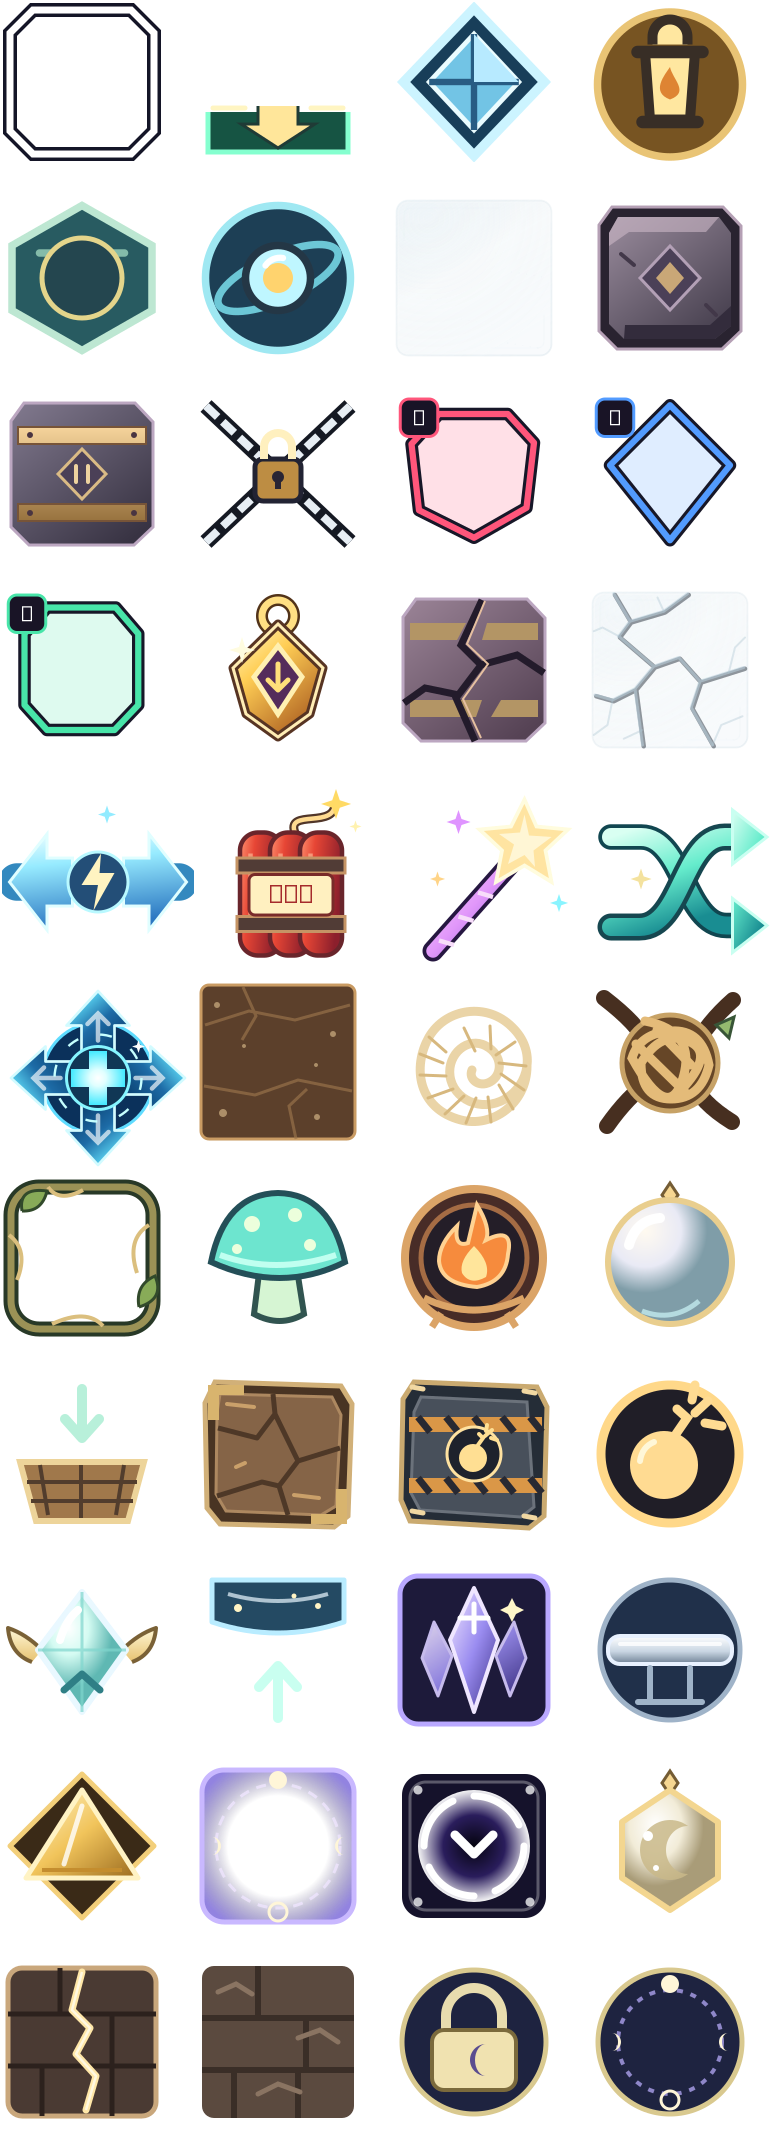
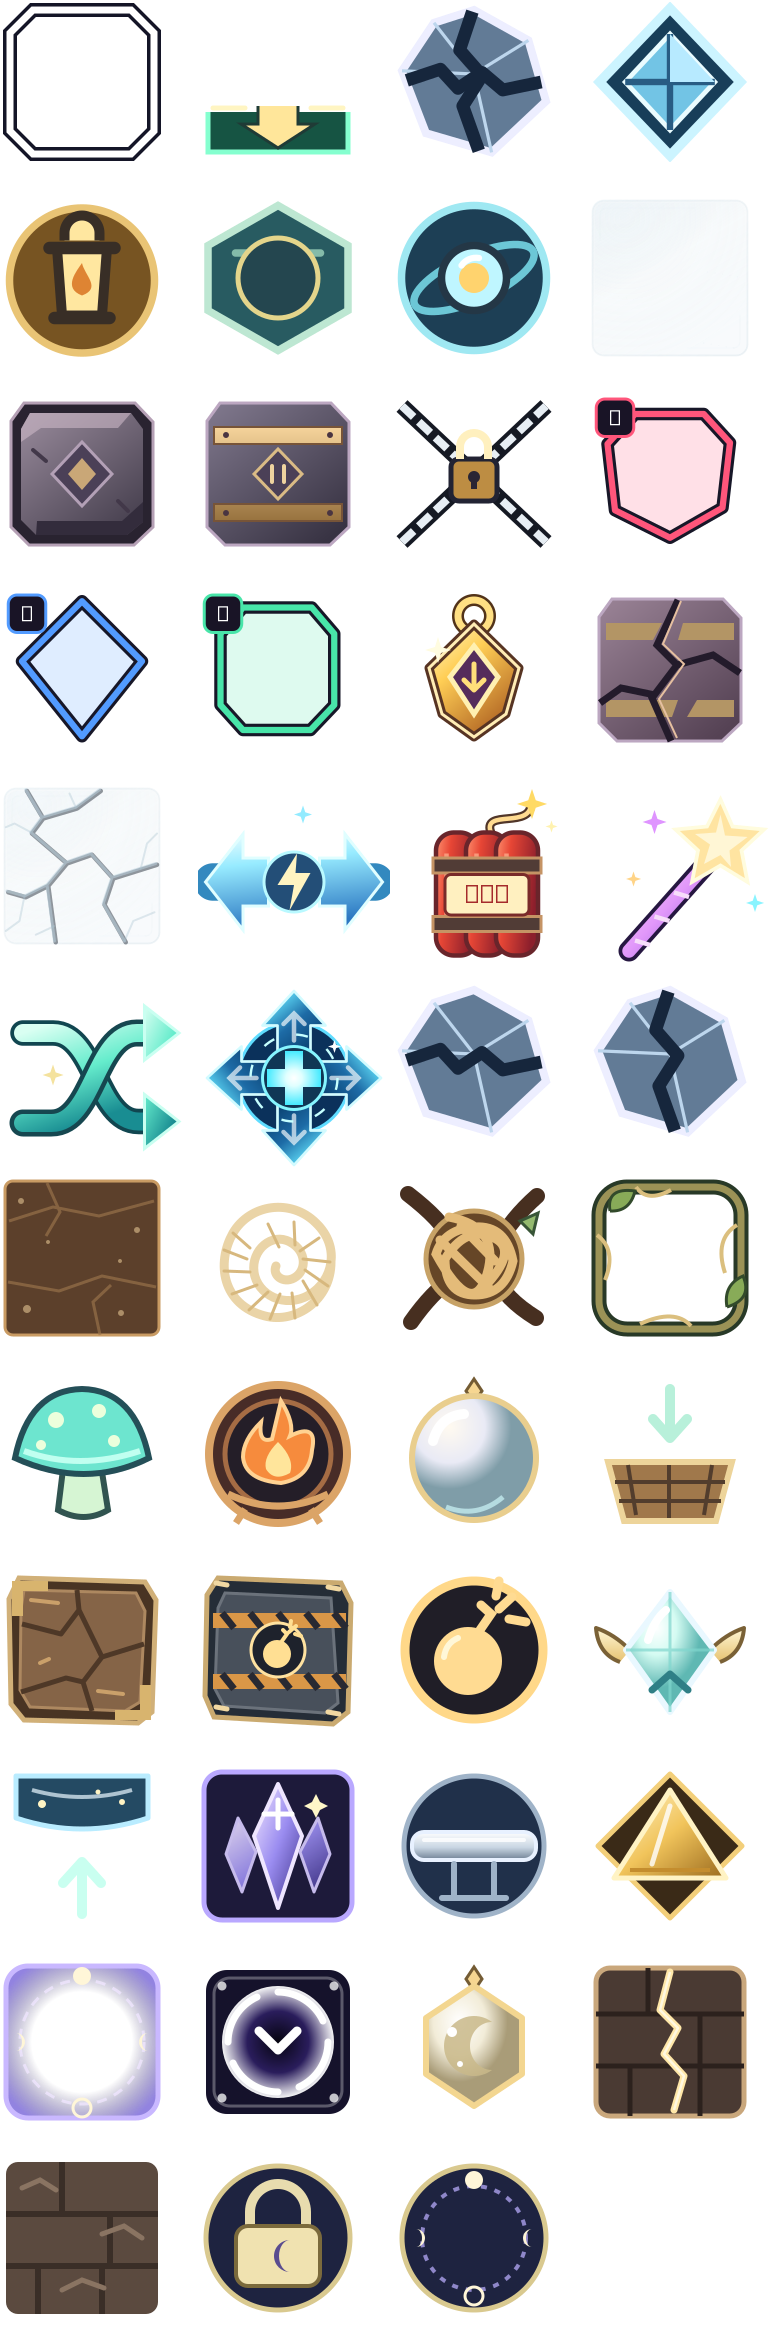
Add directional Crossgrain crystals and a narrow-neck trial

diff --git a/src/game/engine/TileManager.js b/src/game/engine/TileManager.js
@@ -1,4 +1,4 @@
-import { traceCopies } from './CrystalMechanics.js';
+import { traceCopies, crystalHits } from './CrystalMechanics.js';
 import { MatchEngine } from './MatchEngine.js';
 import { BASE_GEM_TYPES, createGem, randomGemType, GEM_TYPES } from './GemFactory.js';
 import { detectBonusFromMatches } from './MatchPatterns.js';
@@ -71,6 +71,7 @@ export class TileManager {
     let totalLayersCleared = 0;
     // A charge core gains at most one charge per move, however long the cascade.
     const chargedCores = new Set();
+    const blastedCrystals = new Set();
     let relicsCollected = 0;
     let queuedSpores = [];
     let phased = false;
@@ -187,6 +188,30 @@ export class TileManager {
           : {}),
       };
 
+      const crystalUpdates = crystalHits(
+        tiles,
+        pendingMatches,
+        pendingMatches
+          .filter((match) => !GEM_TYPES.includes(match.type))
+          .flatMap((match) => match.indices),
+        blastedCrystals,
+      );
+      for (const update of crystalUpdates) {
+        const { index, crystalBlast, ...state } = update;
+        totalLayersCleared += tiles[index].signalHealth - state.signalHealth;
+        if (crystalBlast) blastedCrystals.add(index);
+        step.crystalChanges ??= [];
+        step.crystalChanges.push({
+          index,
+          signal: tiles[index].signal,
+          before: tiles[index].signalHealth,
+          after: state.signalHealth,
+          blast: crystalBlast,
+        });
+        Object.assign(tiles[index], state);
+        step.tileUpdates.push({ index, ...state });
+      }
+
       for (const copy of traceCopies(
         tiles,
         pendingMatches,
@@ -204,9 +229,18 @@ export class TileManager {
       }
 
       for (const index of hasSignals
-        ? signalTargets(tiles, [...impacted, ...protectedIndices], totalCols, totalRows, [
-            ...matchedIndices,
-          ])
+        ? signalTargets(
+            tiles,
+            [...impacted, ...protectedIndices],
+            totalCols,
+            totalRows,
+            pendingMatches
+              .filter((match) => GEM_TYPES.includes(match.type))
+              .map((match) => ({
+                ...match,
+                indices: match.indices.filter((index) => matchedIndices.has(index)),
+              })),
+          )
         : []) {
         const core = isChargeCore(tiles[index]);
         if (core && chargedCores.has(index)) continue;

diff --git a/src/game/phaser/BoardAnimator.js b/src/game/phaser/BoardAnimator.js
@@ -1284,7 +1284,7 @@ export class BoardAnimator {
     const signal = tile?.signalHealth === 0 ? null : tile?.signal;
     // A phase seal shows the colour its gem becomes after the next move.
     const phase = tile?.phaseSeal && tile.health > 0 ? tile.phaseNext : null;
-    const key = `${layers}-${frozen}-${sealColor ?? ''}-${chained}-${!!exit}-${!!tile?.hatch}-${tile?.signal ?? ''}-${tile?.signalHealth}-${tile?.surveyOrder}-${tile?.rootGroup ?? ''}-${tile?.bonusOnly}-${tile?.sporeAxis}-${tile?.health}-${tile?.maxHealth}-${phase ?? ''}-${this.theme}-${this.cellSize}`;
+    const key = `${layers}-${frozen}-${sealColor ?? ''}-${chained}-${!!exit}-${!!tile?.hatch}-${tile?.signal ?? ''}-${tile?.signalHealth}-${tile?.grainRemaining}-${tile?.surveyOrder}-${tile?.rootGroup ?? ''}-${tile?.bonusOnly}-${tile?.sporeAxis}-${tile?.health}-${tile?.maxHealth}-${phase ?? ''}-${this.theme}-${this.cellSize}`;
     let overlay = this.tileOverlays.get(index);
     if (overlay?.__tileKey === key) return;
     overlay?.destroy();
@@ -1352,10 +1352,17 @@ export class BoardAnimator {
       overlay.add(this.drawCracks(size));
     if (signal) {
       const skin = mineSignalAppearance(this.theme, signal);
-      const ref = spriteRef(skin?.texture ?? `tile-${signal}`, this.scene.textures);
+      const texture =
+        signal === 'crossgrain' && tile.grainRemaining !== 3
+          ? `tile-crossgrain-${tile.grainRemaining === 1 ? 'horizontal' : 'vertical'}`
+          : (skin?.texture ?? `tile-${signal}`);
+      const ref = spriteRef(texture, this.scene.textures);
       const marker = this.scene.add
         .image(-size * 0.3, size * 0.29, ref.key, ref.frame)
-        .setDisplaySize(size * 0.43, size * 0.43);
+        .setDisplaySize(
+          size * (signal === 'crossgrain' ? 0.6 : 0.43),
+          size * (signal === 'crossgrain' ? 0.6 : 0.43),
+        );
       overlay.add(marker);
       if (signal === 'trace')
         addLabel(size * 0.28, size * 0.31, tile.traceFacet === 'hexagon' ? '⬡' : '◇', {

diff --git a/src/game/engine/CrystalMechanics.js b/src/game/engine/CrystalMechanics.js
@@ -1,9 +1,11 @@
 import { isPlayableCell } from './BoardTopology.js';
 import { GEM_TYPES } from './GemFactory.js';
 
-export const isCrystalSignal = (tile) => tile?.signal === 'trace';
+export const isCrystalSignal = (tile) => ['trace', 'crossgrain'].includes(tile?.signal);
 
 export function applyCrystalSpec(tiles, spec) {
+  for (const index of spec.crossgrains ?? [])
+    Object.assign(tiles[index], { signal: 'crossgrain', signalHealth: 2, grainRemaining: 3 });
   for (const { cells, facet } of spec.tracePairs ?? []) {
     for (const [side, index] of cells.entries())
       Object.assign(tiles[index], {
@@ -63,4 +65,36 @@ export function traceCopies(tiles, matches, cols, rows, directSwap) {
     spent.add(to);
   }
   return copies;
+}
+
+// Direction stays on each match, rather than being flattened into hit cells.
+// The same pure rule values missing cracks in hints and resolves actual hits.
+export function crystalHits(tiles, matches, blastIndices, blockedBlasts = new Set()) {
+  const blasts = new Set(blastIndices);
+  const updates = [];
+  for (const [index, tile] of tiles.entries()) {
+    if (
+      tile?.signal !== 'crossgrain' ||
+      !tile.signalHealth ||
+      !isPlayableCell(tile) ||
+      tile.state === 'FROZEN'
+    )
+      continue;
+    let remaining = tile.grainRemaining;
+    for (const match of matches) {
+      if (!GEM_TYPES.includes(match.type) || !match.indices.includes(index)) continue;
+      if (match.orientation === 'horizontal') remaining &= ~1;
+      if (match.orientation === 'vertical') remaining &= ~2;
+    }
+    const blast = blasts.has(index) && !blockedBlasts.has(index) && remaining > 0;
+    if (blast) remaining &= remaining - 1;
+    if (remaining === tile.grainRemaining) continue;
+    updates.push({
+      index,
+      grainRemaining: remaining,
+      signalHealth: Number(!!(remaining & 1)) + Number(!!(remaining & 2)),
+      crystalBlast: blast,
+    });
+  }
+  return updates;
 }

diff --git a/src/game/engine/HintEngine.js b/src/game/engine/HintEngine.js
@@ -1,4 +1,4 @@
-import { traceCopies } from './CrystalMechanics.js';
+import { traceCopies, crystalHits } from './CrystalMechanics.js';
 import { MatchEngine } from './MatchEngine.js';
 import { BonusActivator } from './BonusActivator.js';
 import { BOARD_BONUSES, canSwapGem, neighborsOf } from './TileRules.js';
@@ -57,6 +57,10 @@ export class HintEngine {
         hitsSwitch = indices.some((index) => isGravitySwitch(tiles[index])),
       } = {},
     ) => {
+      const crystalValue = crystalHits(tiles, ordinaryMatches, usesBonus ? indices : []).reduce(
+        (sum, update) => sum + (tiles[update.index].signalHealth - update.signalHealth) * 260,
+        0,
+      );
       const copies = traceCopies(tiles, ordinaryMatches, cols, rows, !!swap);
       const copied = new Set(copies.flatMap((copy) => copy.targets));
       indices = [...new Set([...indices, ...copied])];
@@ -122,6 +126,7 @@ export class HintEngine {
       ).length;
       const flips = switches && usesBonus && hitsSwitch ? flipValue : 0;
       return (
+        crystalValue +
         copies.length * 380 +
         flips +
         Number(usesBonus) * 50 +
@@ -134,15 +139,7 @@ export class HintEngine {
         nearbyBlocks.size * 180 +
         relicPaths * 90 +
         indices.length +
-        (hasSignals
-          ? signalTargets(
-              tiles,
-              indices,
-              cols,
-              rows,
-              ordinaryMatches.flatMap((match) => match.indices),
-            ).length * 190
-          : 0) +
+        (hasSignals ? signalTargets(tiles, indices, cols, rows, ordinaryMatches).length * 190 : 0) +
         (requested.size
           ? indices.filter((index) =>
               requested.has(

diff --git a/testing/helpers/campaignSimulation.js b/testing/helpers/campaignSimulation.js
@@ -42,6 +42,8 @@ export function simulateCampaignLevel(level, seed, { observe } = {}) {
       sporeBursts = 0,
       traceActivations = 0,
       traceGateHits = 0,
+      grainDirectionSplits = 0,
+      grainBlastSplits = 0,
       blastOnlyHits = 0,
       diagonalPearlDrops = 0;
     const blastHealth = tiles.map((tile) => (tile.bonusOnly ? tile.health : 0));
@@ -105,6 +107,11 @@ export function simulateCampaignLevel(level, seed, { observe } = {}) {
         craftedBonuses += (step.bonuses ?? []).filter((bonus) => bonus.core === undefined).length;
         coreBonuses += (step.bonuses ?? []).filter((bonus) => bonus.core !== undefined).length;
         sporeBursts += step.sporeBursts?.length ?? 0;
+        for (const change of step.crystalChanges ?? [])
+          if (change.signal === 'crossgrain') {
+            if (change.blast) grainBlastSplits += change.before - change.after;
+            else grainDirectionSplits += change.before - change.after;
+          }
         traceActivations += step.traceCopies?.length ?? 0;
         const copied = new Set((step.traceCopies ?? []).flatMap((copy) => copy.targets));
         diagonalPearlDrops += (step.drops ?? []).filter(
@@ -137,6 +144,8 @@ export function simulateCampaignLevel(level, seed, { observe } = {}) {
       sporeBursts,
       traceActivations,
       traceGateHits,
+      grainDirectionSplits,
+      grainBlastSplits,
       blastOnlyHits,
       diagonalPearlDrops,
     };

diff --git a/src/data/deepMineLevels.js b/src/data/deepMineLevels.js
@@ -278,6 +278,7 @@ export function parseMineBoard(
         : `Mine boards must be ${cols} × ${rowCount}`,
     );
   const cells = [...rows.join('')];
+  const crossgrains = [];
   const traceGroups = new Map();
   const cores = [];
   const signals = [];
@@ -296,7 +297,8 @@ export function parseMineBoard(
         if (root.knot !== undefined) throw new Error('A root group must have one knot');
         root.knot = index;
       } else root.bindings.push(index);
-    } else if (symbol === 't' || symbol === 'j') {
+    } else if (symbol === 'i') crossgrains.push(index);
+    else if (symbol === 't' || symbol === 'j') {
       if (!traceGroups.has(symbol)) traceGroups.set(symbol, []);
       traceGroups.get(symbol).push(index);
     } else if (symbol === 'o') cores.push(index);
@@ -335,6 +337,7 @@ export function parseMineBoard(
     map: Array.from({ length: rowCount }, (_, row) =>
       map.slice(row * cols, row * cols + cols).join(''),
     ).join('/'),
+    ...(crossgrains.length ? { crossgrains } : {}),
     ...(traceGroups.size
       ? {
           tracePairs: [...traceGroups].map(([symbol, cells]) => {

diff --git a/testing/crystal-mechanics.test.js b/testing/crystal-mechanics.test.js
@@ -121,3 +121,19 @@ it('consumes simultaneous twins once, and preserves both copied footprints', () 
     result.steps.flatMap((step) => step.tileUpdates).filter((update) => update.signalHealth === 0),
   ).toHaveLength(2);
 });
+
+it('crossgrain needs two distinct axes, and a blast seals only one crack', async () => {
+  const { crystalHits } = await import('../src/game/engine/CrystalMechanics');
+  const tiles = [{ ...plain(), signal: 'crossgrain', signalHealth: 2, grainRemaining: 3 }];
+  const h = { type: 'ruby', indices: [0], orientation: 'horizontal' },
+    v = { ...h, orientation: 'vertical' };
+  const [first] = crystalHits(tiles, [h], []);
+  expect(first.signalHealth).toBe(1);
+  Object.assign(tiles[0], first);
+  expect(crystalHits(tiles, [h], [])).toEqual([]);
+  expect(crystalHits(tiles, [v], [])[0].signalHealth).toBe(0);
+  tiles[0].grainRemaining = 3;
+  tiles[0].signalHealth = 2;
+  expect(crystalHits(tiles, [], [0])[0].signalHealth).toBe(1);
+  expect(crystalHits(tiles, [h, v], [])[0].signalHealth).toBe(0);
+});

diff --git a/testing/run-replay.test.js b/testing/run-replay.test.js
@@ -136,12 +136,15 @@ describe('the dice rule', () => {
   });
 });
 
-it.each(['trace-twins-first-impression'])('replays a crystal trial exactly: %s', async (key) => {
-  const live = fresh(1);
-  expect(live.startLevel(key, 'prototype', { seed: 871 })).toBe(true);
-  await play(live, 60);
-  expect(live.levelCleared).toBe(true);
-  const log = JSON.parse(JSON.stringify(runReport(live)));
-  const again = fresh(1);
-  expect(await replayRun(again, log)).toBe(log.fingerprint);
-});
+it.each(['trace-twins-first-impression', 'crossgrain-narrow-neck'])(
+  'replays a crystal trial exactly: %s',
+  async (key) => {
+    const live = fresh(1);
+    expect(live.startLevel(key, 'prototype', { seed: 871 })).toBe(true);
+    await play(live, 60);
+    expect(live.levelCleared).toBe(true);
+    const log = JSON.parse(JSON.stringify(runReport(live)));
+    const again = fresh(1);
+    expect(await replayRun(again, log)).toBe(log.fingerprint);
+  },
+);

diff --git a/src/data/mineThemes.js b/src/data/mineThemes.js
@@ -385,6 +385,7 @@ const themes = {
 // Every deeper chapter uses the same names and pictures when a familiar goal
 // returns in another cavern. Scenery changes; the player's learned rule does not.
 const deepSignals = {
+  crossgrain: { id: 'crossgrain', texture: 'tile-crossgrain' },
   trace: { id: 'trace-twins', texture: 'tile-trace' },
   spore: themes['glowshroom-grotto'].signals.spore,
   core: themes['geothermal-forge'].signals.core,
@@ -399,6 +400,8 @@ export const mineRelicAppearance = (theme) => themes[theme]?.relic ?? relic;
 
 // One sprite catalog drives both build-time rasterization and SVG recovery.
 export const DEEP_MINE_SPRITES = [
+  ['tile-crossgrain-horizontal', 'obstacles/crossgrain-horizontal.svg'],
+  ['tile-crossgrain-vertical', 'obstacles/crossgrain-vertical.svg'],
   ['tile-dust', 'obstacles/dust.svg'],
   ['tile-fossil', 'obstacles/fossil.svg'],
   ['tile-root-knot', 'obstacles/root-knot.svg'],

diff --git a/testing/levels/new-crystal-trials.test.js b/testing/levels/new-crystal-trials.test.js
@@ -2,7 +2,7 @@ import { expect, it } from 'vitest';
 import { prototypeConfig } from '../../src/data/prototypeBoards';
 import { simulateCampaignLevel } from '../helpers/campaignSimulation';
 
-const KEYS = ['trace-twins-first-impression'];
+const KEYS = ['trace-twins-first-impression', 'crossgrain-narrow-neck'];
 const at = (values, q) => values.toSorted((a, b) => a - b)[Math.floor((values.length - 1) * q)];
 it.each(KEYS)(
   'finishes every one of 60 hint-led seeds: %s',
@@ -17,6 +17,14 @@ it.each(KEYS)(
           runs.map((run) => run.turns),
           q,
         ),
+      ),
+      medianDirectionSplits: at(
+        runs.map((run) => run.grainDirectionSplits),
+        0.5,
+      ),
+      medianBlastSplits: at(
+        runs.map((run) => run.grainBlastSplits),
+        0.5,
       ),
       medianScore: at(
         runs.map((run) => run.score),

diff --git a/src/game/engine/ChapterMechanics.js b/src/game/engine/ChapterMechanics.js
@@ -6,7 +6,10 @@ import { isPlayableCell } from './BoardTopology.js';
 // Floor markers never anchor gems or obstruct gravity. A lantern lights only when a
 // match or blast clears its own cell. Survey markers light in numbered order, from a
 // match or blast on or beside them; ordinary lanterns can be lit in any order.
-export function signalTargets(tiles, impacted, cols, rows, ordinaryIndices = impacted) {
+export function signalTargets(tiles, impacted, cols, rows, ordinaryMatches = null) {
+  const ordinaryIndices = ordinaryMatches
+    ? ordinaryMatches.flatMap((match) => match.indices)
+    : impacted;
   const survey = tiles.reduce(
     (next, tile) =>
       tile.signalHealth && tile.surveyOrder ? Math.min(next, tile.surveyOrder) : next,

diff --git a/src/data/obstacles.js b/src/data/obstacles.js
@@ -4,6 +4,15 @@ import { mineSignalAppearance, mineRelicAppearance } from './mineThemes.js';
 // DEEP_MINE_SPRITES instead.
 export const OBSTACLES = [
   {
+    id: 'crossgrain',
+    name: 'Crossgrain crystal',
+    art: '/art/obstacles/crossgrain.svg',
+    texture: 'tile-crossgrain',
+    instruction:
+      'Match on the crystal horizontally and vertically, in either order. Each match seals its crack; repeating that direction does nothing. A direct blast seals one remaining crack, at most once per move. Seal both and the crystal vanishes. Neighbouring matches do not count.',
+    present: (tile) => tile.signal === 'crossgrain',
+  },
+  {
     id: 'trace-twins',
     name: 'Trace twins',
     art: '/art/obstacles/trace.svg',
